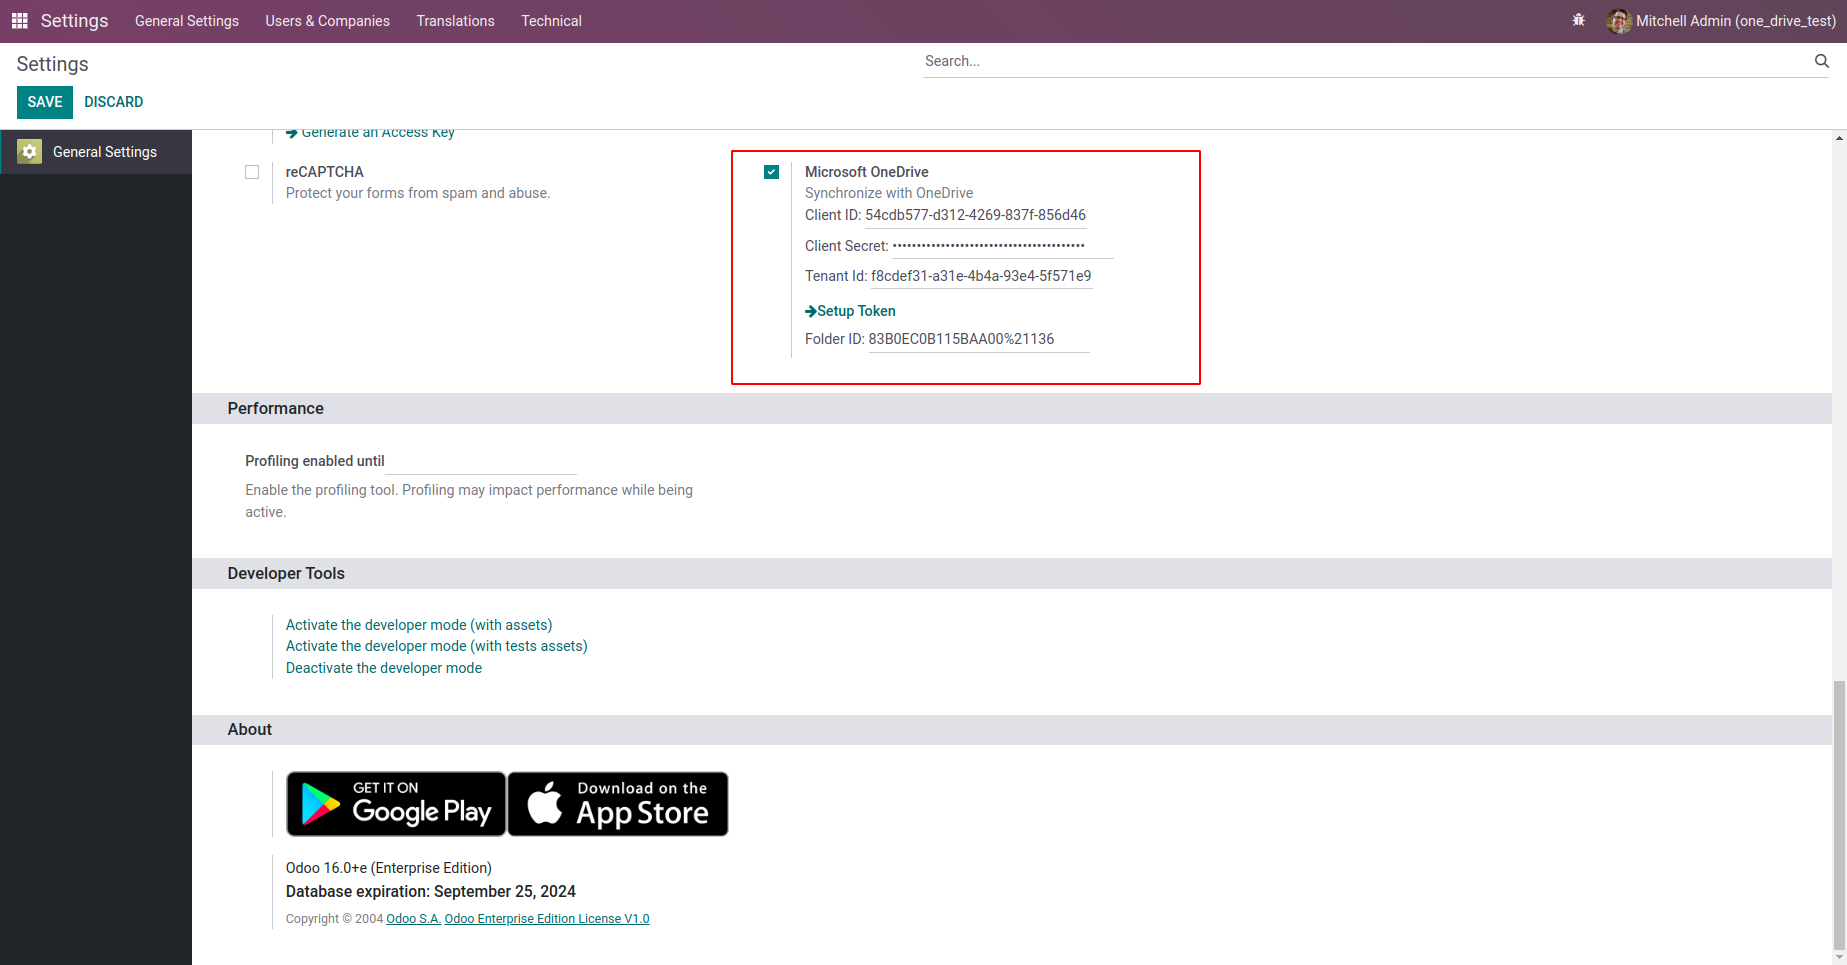
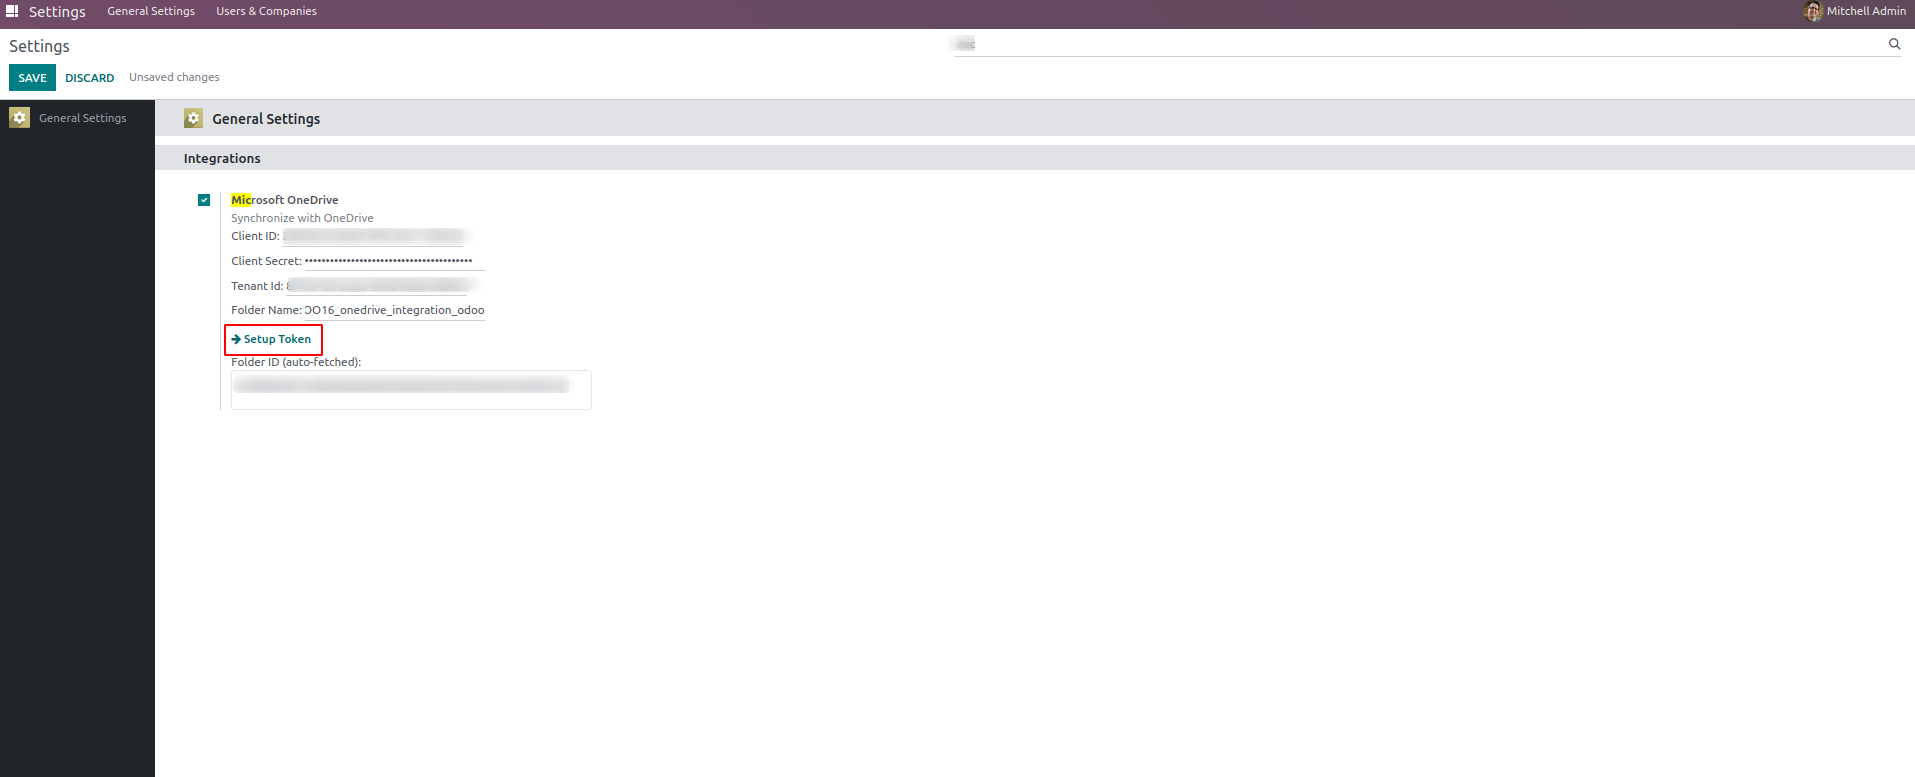
Sep 13: [FIX] Bug fixed 'onedrive_integration_odoo'

Changed region(s): [[0.0, 0.0, 1.0, 1.0]]

diff --git a/onedrive_integration_odoo/static/description/index.html b/onedrive_integration_odoo/static/description/index.html
@@ -191,10 +191,10 @@
     </div>
     <div style="display: block; margin: 30px auto;">
       <h3 style="font-family: 'Montserrat', sans-serif; font-size: 18px; font-weight: bold;">
-        Onedrive Folder id
+        Onedrive Folder Name
       </h3>
       <p style="font-family: 'Roboto', sans-serif !important; font-weight: 400 !important; color: #282F33 !important; font-size: 1rem !important;">
-        The Onedrive folder id is presented on url of that folder itself.</p>
+        Use the Onedrive folder name for odoo setup.</p>
       <img src="assets/screenshots/5.png" class="img-thumbnail">
     </div>
 
@@ -203,7 +203,7 @@
         Token setup
       </h3>
       <p style="font-family: 'Roboto', sans-serif !important; font-weight: 400 !important; color: #282F33 !important; font-size: 1rem !important;">
-        Token setup is available in configuration settings. Setup Tokens button will redirect to an authorization page.
+        Token setup is available in configuration settings.After token setup system now automatically retrieves the corresponding Folder ID using Folder Name and stores it internally. Setup Tokens button will redirect to an authorization page.
         Goto --> Settngs-->Integrations</p>
       <img src="assets/screenshots/06.png" class="img-thumbnail">
     </div>

diff --git a/onedrive_integration_odoo/static/src/js/onedrive.js b/onedrive_integration_odoo/static/src/js/onedrive.js
@@ -59,7 +59,6 @@ odoo.define('onedrive_integration_odoo.dashboard', function (require) {
                         }
                     });
                 } else if (result[0] === 'error') {
-                    console.log(result);
                     if (result[1] === 'itemNotFound') {
                         // Display a notification if the folder is not found
                         self.do_action({

diff --git a/onedrive_integration_odoo/models/onedrive_dashboard.py b/onedrive_integration_odoo/models/onedrive_dashboard.py
@@ -53,9 +53,7 @@ class OneDriveDashboard(models.Model):
         help="Binary field to store the uploaded file.")
 
     def get_tokens(self, authorize_code):
-        """
-        Generate onedrive tokens from authorization code
-        """
+        """ Generate onedrive tokens from authorization code """
         data = {
             'code': authorize_code,
             'client_id': self.env['ir.config_parameter'].get_param(
@@ -76,12 +74,26 @@ class OneDriveDashboard(models.Model):
             response = res.content and res.json() or {}
             if response:
                 expires_in = response.get('expires_in')
-                self.env['onedrive.dashboard'].create({
+                record = self.env['onedrive.dashboard'].create({
                     'onedrive_access_token': response.get('access_token'),
                     'onedrive_refresh_token': response.get('refresh_token'),
                     'token_expiry_date': fields.Datetime.now() + timedelta(
                         seconds=expires_in) if expires_in else False,
                 })
+
+                folder_name = self.env['ir.config_parameter'].get_param(
+                    'onedrive_integration_odoo.folder_name', '')
+                if folder_name:
+                    url = f"https://graph.microsoft.com/v1.0/me/drive/root:/{folder_name}"
+                    res_folder = requests.get(url, headers={
+                        'Authorization': f'Bearer {response.get("access_token")}'
+                    }).json()
+
+                    if "id" in res_folder:
+                        self.env['ir.config_parameter'].set_param(
+                            'onedrive_integration_odoo.folder_id',
+                            res_folder["id"]
+                        )
         except requests.HTTPError as error:
             _logger.exception("Bad microsoft onedrive request : %s !",
                               error.response.content)
@@ -131,20 +143,35 @@ class OneDriveDashboard(models.Model):
             return False
         if record.token_expiry_date <= str(fields.Datetime.now()):
             record.generate_onedrive_refresh_token()
+
         folder = self.env['ir.config_parameter'].get_param(
-            'onedrive_integration_odoo.folder_id', '')
-        if not folder: return False
-        url = "https://graph.microsoft.com/v1.0/me/drive/items/%s/children" \
-              "?Content-Type=application/json" % folder
-        response = requests.request("GET", url, headers={
-            'Authorization': 'Bearer "' + record.onedrive_access_token + '"'},
-                                    data={})
+            'onedrive_integration_odoo.folder_id', ''
+        )
+        if not folder:
+            url = f"https://graph.microsoft.com/v1.0/me/drive/root:/{folder_name}"
+            response = requests.get(url, headers={
+                'Authorization': f'Bearer {record.onedrive_access_token}'
+            })
+            folder_data = response.json()
+            if "id" in folder_data:
+                folder = folder_data["id"]
+                self.env['ir.config_parameter'].set_param(
+                    'onedrive_integration_odoo.folder_id', folder
+                )
+            else:
+                return ['error', 'itemNotFound', 'Folder not found in OneDrive']
+
+        url = f"https://graph.microsoft.com/v1.0/me/drive/items/{folder}/children"
+        response = requests.get(url, headers={
+            'Authorization': f'Bearer {record.onedrive_access_token}'
+        })
         message = json.loads(response.content)
         if 'error' in message:
             return ['error', message['error']['code'],
                     message['error']['message']]
         files = {}
-        for file in response.json().get('value'):
-            if list(file.keys())[0] == '@microsoft.graph.downloadUrl':
+        for file in response.json().get('value', []):
+            if '@microsoft.graph.downloadUrl' in file:
                 files[file['name']] = file['@microsoft.graph.downloadUrl']
         return files
+

diff --git a/onedrive_integration_odoo/wizard/upload_file.py b/onedrive_integration_odoo/wizard/upload_file.py
@@ -42,35 +42,62 @@ class UploadFile(models.TransientModel):
         attachment = self.env["ir.attachment"].search(
             ['|', ('res_field', '!=', False), ('res_field', '=', False),
              ('res_id', '=', self.id),
-             ('res_model', '=', 'upload.file')])
+             ('res_model', '=', 'upload.file')]
+        )
         token = self.env['onedrive.dashboard'].search([], order='id desc',
                                                       limit=1)
         folder = self.env['ir.config_parameter'].get_param(
-            'onedrive_integration_odoo.folder_id', '')
+            'onedrive_integration_odoo.folder_id', ''
+        )
         if not token or not folder:
             raise exceptions.UserError(
-                _('Please setup Access Token and Folder Id.'))
+                _('Please setup Access Token and Folder Id.')
+            )
         if token.token_expiry_date <= str(fields.Datetime.now()):
             token.generate_onedrive_refresh_token()
+
         try:
-            url = "http://graph.microsoft.com/v1.0/me/drive/items/%s:/%s:/" \
-                  "createUploadSession" % (folder, self.file_name)
+            url = f"https://graph.microsoft.com/v1.0/me/drive/items/{folder}:/{self.file_name}:/createUploadSession"
+
             upload_session = requests.post(url, headers={
                 'Content-Type': 'application/json',
-                'Authorization': 'Bearer "' + token.onedrive_access_token + '"'
-            })
-            requests.put(upload_session.json().get('uploadUrl'), data=open(
-                (attachment._full_path(attachment.store_fname)), 'rb'))
-            return {
-                'type': 'ir.actions.client',
-                'tag': 'display_notification',
-                'params': {
-                    'type': 'success',
-                    'message': 'File has been uploaded successfully. '
-                               'Please refresh.',
-                    'next': {'type': 'ir.actions.act_window_close'},
-                }
+                'Authorization': f'Bearer {token.onedrive_access_token}'
+            }).json()
+
+            if "uploadUrl" not in upload_session:
+                raise exceptions.UserError(
+                    _('Failed to create upload session: %s' % upload_session))
+
+            upload_url = upload_session.get('uploadUrl')
+
+            file_path = attachment._full_path(attachment.store_fname)
+            with open(file_path, 'rb') as f:
+                file_data = f.read()
+
+            file_size = len(file_data)
+
+            headers = {
+                'Content-Length': str(file_size),
+                'Content-Range': f'bytes 0-{file_size - 1}/{file_size}'
             }
+
+            response = requests.put(upload_url, headers=headers, data=file_data)
+
+            if response.status_code in (200, 201):
+                return {
+                    'type': 'ir.actions.client',
+                    'tag': 'display_notification',
+                    'params': {
+                        'type': 'success',
+                        'message': 'File uploaded successfully to OneDrive.',
+                        'next': {'type': 'ir.actions.act_window_close'},
+                    }
+                }
+            else:
+                raise exceptions.UserError(
+                    _('Upload failed: %s' % response.content)
+                )
+
         except Exception as error:
             return {
                 'type': 'ir.actions.client',
@@ -81,3 +108,4 @@ class UploadFile(models.TransientModel):
                     'next': {'type': 'ir.actions.act_window_close'},
                 }
             }
+

diff --git a/onedrive_integration_odoo/models/res_config_settings.py b/onedrive_integration_odoo/models/res_config_settings.py
@@ -31,12 +31,6 @@ _logger = logging.getLogger(__name__)
 
 
 class ResConfigSettings(models.TransientModel):
-    """
-    This model represents the configuration settings for the OneDrive
-    integration in Odoo.It allows users to configure various parameters for
-    OneDrive integration, including client ID, client secret, access token,
-    and folder ID.
-    """
     _inherit = 'res.config.settings'
 
     onedrive_client = fields.Char(
@@ -53,22 +47,29 @@ class ResConfigSettings(models.TransientModel):
     onedrive_tenant_id = fields.Char(
         string="Onedrive Tenant Id",
         config_parameter='onedrive_integration_odoo.tenant_id',
-        help="Director (tenant) id for accessing OneDrive API")
+        help="Directory (tenant) id for accessing OneDrive API")
     onedrive_refresh_token = fields.Char(
         string='Onedrive Refresh Token',
         help="Refresh Token for refreshing the access token")
-    onedrive_folder = fields.Char(
-        string='Folder ID', help="ID of the folder in OneDrive",
-        config_parameter='onedrive_integration_odoo.folder_id')
+
+    onedrive_folder_name = fields.Char(
+        string='Folder Name',
+        help="Name of the folder in OneDrive (ex: ODOO16_onedrive_integration_odoo)",
+        config_parameter='onedrive_integration_odoo.folder_name'
+    )
+    onedrive_folder_id = fields.Char(
+        string='Folder ID',
+        help="Fetched Folder ID from OneDrive API",
+        config_parameter='onedrive_integration_odoo.folder_id'
+    )
+
     is_onedrive_enabled = fields.Boolean(
-        string="Synchronize Onedrive with odoo",
+        string="Synchronize Onedrive with Odoo",
         config_parameter='onedrive_integration_odoo.onedrive_button',
         help="Enable/Disable OneDrive integration")
 
     def action_get_onedrive_auth_code(self):
-        """
-        Generate onedrive authorization code
-        """
+        """ Generate onedrive authorization code """
         data = {
             'client_id': self.env['ir.config_parameter'].get_param(
                 'onedrive_integration_odoo.client_id', ''),
@@ -117,3 +118,4 @@ class ResConfigSettings(models.TransientModel):
                 'target': 'self',
                 'url': "%s?%s" % (authority, encoded_params),
             }
+

diff --git a/onedrive_integration_odoo/__manifest__.py b/onedrive_integration_odoo/__manifest__.py
@@ -21,7 +21,7 @@
 ###############################################################################
 {
     'name': "Onedrive Integration",
-    'version': "16.0.1.0.0'",
+    'version': "16.0.1.0.2'",
     'category': "Document Management",
     'summary': """Upload and download files in Onedrive using odoo """,
     'description': """This module was developed to upload files to Onedrive as 

diff --git a/onedrive_integration_odoo/hooks.py b/onedrive_integration_odoo/hooks.py
@@ -35,3 +35,5 @@ def uninstall_hook(cr, registry):
         [('key', '=', 'onedrive_integration_odoo.folder_id')]).unlink()
     env['ir.config_parameter'].sudo().search(
         [('key', '=', 'onedrive_integration_odoo.onedrive_button')]).unlink()
+    env['ir.config_parameter'].sudo().search(
+        [('key', '=', 'onedrive_integration_odoo.folder_id')]).unlink()

diff --git a/onedrive_integration_odoo/doc/RELEASE_NOTES.md b/onedrive_integration_odoo/doc/RELEASE_NOTES.md
@@ -8,3 +8,8 @@
 #### Version 16.0.1.0.1
 #### UPDT
 -  Added modules field and changed view
+
+#### 12.09.2025
+#### Version 16.0.1.0.2
+##### BUG FIX
+- Updated the module workflow to remove the dependency on manually fetching the folder ID. Instead, a new Folder Name field was introduced in the Odoo settings, and the system now automatically retrieves the corresponding Folder ID from the Microsoft Graph API and stores it internally.
